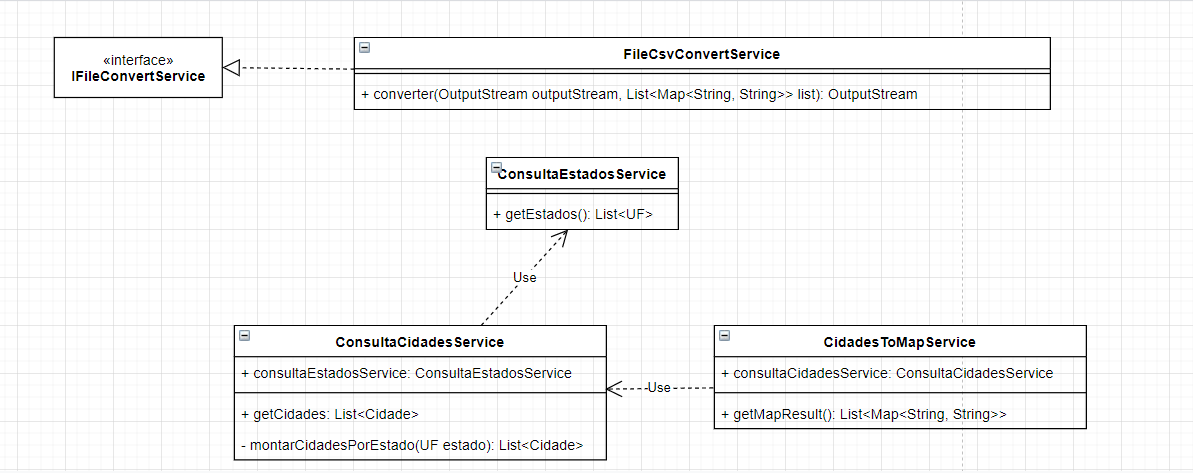
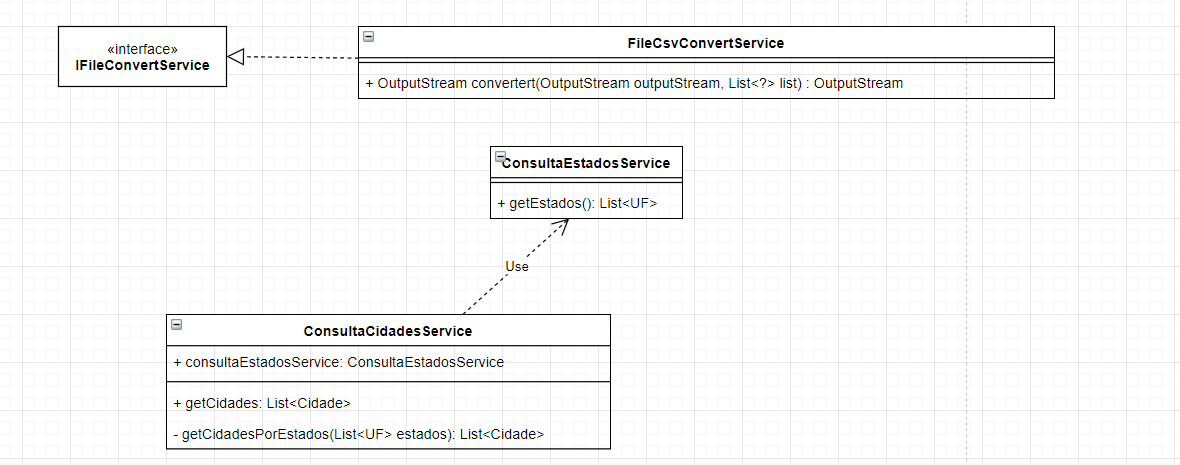
adicionado dto retorno e conversor generico csv

diff --git a/src/main/java/com/consulta/estado/cidade/resources/ConsultaCidadeResource.java b/src/main/java/com/consulta/estado/cidade/resources/ConsultaCidadeResource.java
@@ -7,6 +7,7 @@ import java.util.Date;
 import java.util.HashMap;
 import java.util.List;
 import java.util.Map;
+import java.util.stream.Collectors;
 import javax.servlet.http.HttpServletResponse;
 import org.springframework.beans.factory.annotation.Autowired;
 import org.springframework.cache.annotation.Cacheable;
@@ -18,7 +19,7 @@ import org.springframework.web.bind.annotation.RequestMapping;
 import org.springframework.web.bind.annotation.ResponseStatus;
 import org.springframework.web.bind.annotation.RestController;
 import com.consulta.estado.cidade.models.Cidade;
-import com.consulta.estado.cidade.services.CidadesToMapService;
+import com.consulta.estado.cidade.models.CidadeDto;
 import com.consulta.estado.cidade.services.ConsultaCidadesService;
 import com.consulta.estado.cidade.services.IFileConvertService;
 import io.swagger.annotations.Api;
@@ -35,37 +36,34 @@ public class ConsultaCidadeResource {
 	@Autowired
 	private ConsultaCidadesService consultaCidadesService;
 
-	@Autowired
-	private CidadesToMapService cidadesToMapService;
-
 	@ApiOperation(value = "Retorna csv")
 	@GetMapping("/cidades/csv")
 	@ResponseStatus(HttpStatus.CREATED)
 	public OutputStream getCsv(HttpServletResponse response) throws IOException {
-		List<Map<String, String>> listaMapDados = cidadesToMapService.getMapResult();
 
+		List<CidadeDto> cidadesDto = consultaCidadesService.getCidades().stream().map(cidade -> new CidadeDto(cidade)).collect(Collectors.toList());
+		
 		response.setContentType("text/csv");
 
 		String nomeArquivo = "consulta_" + new SimpleDateFormat("yyyyMMddHHmmssSSS").format(new Date());
 		response.setHeader("Content-Disposition", "attachment; filename=" + nomeArquivo + ".csv;");
 		
-		return fileConvertCsv.converter(response.getOutputStream(), listaMapDados);
+		return fileConvertCsv.convertert(response.getOutputStream(), cidadesDto);
 	}
 
 	@ApiOperation(value = "Retorna json")
 	@GetMapping("/cidades/json")
 	@ResponseStatus(HttpStatus.OK)
-	public ResponseEntity<List<Map<String, String>>> getCidades() {
-		List<Map<String, String>> listaMapDados = cidadesToMapService.getMapResult();
-		return new ResponseEntity<List<Map<String, String>>>(listaMapDados, HttpStatus.OK);
+	public List<CidadeDto> getCidades() {
+		List<CidadeDto> cidadesDto = consultaCidadesService.getCidades().stream().map(x -> new CidadeDto(x)).collect(Collectors.toList());
+		return cidadesDto;
 	}
 
 	@ApiOperation(value = "obtem cidade por nome")
 	@GetMapping("/cidades/{nomeCidade}")
 	@Cacheable("cidade")
 	public ResponseEntity<?> getCidade(@PathVariable String nomeCidade) {
-		Cidade cidade = consultaCidadesService.getCidades().stream()
-				.filter(cid -> cid.getNome().equalsIgnoreCase(nomeCidade)).findFirst().orElse(null);
+		Cidade cidade = consultaCidadesService.getCidades().stream().filter(cid -> cid.getNome().equalsIgnoreCase(nomeCidade)).findFirst().orElse(null);
 
 		if (cidade != null) {
 			return new ResponseEntity<>(cidade.getId(), HttpStatus.OK);

diff --git a/src/main/java/com/consulta/estado/cidade/utils/ObjectListToCSV.java b/src/main/java/com/consulta/estado/cidade/utils/ObjectListToCSV.java
@@ -1,0 +1,87 @@
+package com.consulta.estado.cidade.utils;
+
+import java.lang.reflect.Field;
+import java.lang.reflect.Modifier;
+import java.util.ArrayList;
+import java.util.List;
+
+public class ObjectListToCSV {
+
+	private static final String CSV_SEPARATOR = ",";
+
+	public static String convertListToCSV(List<?> objectList) {
+		if (objectList.size() < 1) {
+			Log.getLog().info("Não encontrado itens para converter para csv");
+			return "";
+		}
+		String csv = "";
+		Object t = objectList.get(0);
+		Field[] declaredFields = t.getClass().getDeclaredFields();
+		ArrayList<Field> useableFields = getUseableFields(declaredFields);
+		csv = getCSVHeader(csv, useableFields, null);
+		csv = csv.concat("\n");
+		for (Object object : objectList) {
+			csv = addObjectValue(csv, useableFields, object);
+			csv = csv.concat("\n");
+		}
+		return csv;
+	}
+
+	private static String addObjectValue(String csv, ArrayList<Field> useableFields, Object object) {
+
+		for (Field field : useableFields) {
+			try {
+				if (canFieldUsedDirectly(field)) {
+					if (object != null) {
+						field.setAccessible(true);
+						Object value = field.get(object);
+						csv = csv.concat(value + "");
+						field.setAccessible(false);
+					}
+				} else {
+					if (object != null) {
+						field.setAccessible(true);
+						Object value = field.get(object);
+						field.setAccessible(false);
+						csv = addObjectValue(csv, getUseableFields(field.getType().getDeclaredFields()), value);
+					}
+				}
+			} catch (IllegalArgumentException e) {
+				Log.getLog().fine(e.getMessage());
+			} catch (SecurityException e) {
+				Log.getLog().fine(e.getMessage());
+			} catch (IllegalAccessException e) {
+				Log.getLog().fine(e.getMessage());
+			}
+			csv = csv.concat(CSV_SEPARATOR);
+		}
+		return csv;
+	}
+
+	private static boolean canFieldUsedDirectly(Field field) {
+		return !field.getType().toString().contains("biplav");
+	}
+
+	private static ArrayList<Field> getUseableFields(Field[] declaredFields) {
+		ArrayList<Field> useableFields = new ArrayList<Field>();
+		for (Field field : declaredFields) {
+			if (!Modifier.isStatic(field.getModifiers())) {
+				useableFields.add(field);
+			}
+		}
+		return useableFields;
+	}
+
+	private static String getCSVHeader(String csv, ArrayList<Field> useableFields, String prefix) {
+		prefix = (prefix == null) ? "" : prefix;
+		for (Field field : useableFields) {
+			if (canFieldUsedDirectly(field)) {
+				csv = csv.concat(prefix + field.getName());
+				csv = csv.concat(CSV_SEPARATOR);
+			} else {
+				csv = getCSVHeader(csv, getUseableFields(field.getType().getDeclaredFields()), field.getName() + "_");
+			}
+		}
+		return csv;
+	}
+}

diff --git a/src/main/java/com/consulta/estado/cidade/services/ConsultaCidadesService.java b/src/main/java/com/consulta/estado/cidade/services/ConsultaCidadesService.java
@@ -5,6 +5,8 @@ import java.util.Arrays;
 import java.util.HashMap;
 import java.util.List;
 import java.util.Map;
+import java.util.stream.Collectors;
+
 import org.springframework.beans.factory.annotation.Autowired;
 import org.springframework.beans.factory.annotation.Value;
 import org.springframework.stereotype.Service;
@@ -27,37 +29,32 @@ public class ConsultaCidadesService {
 
 	public List<Cidade> getCidades() {
 
-		Log.getLog().info("Inicio consultar cidades");
+		Log.getLog().info("Consultando cidades...");
 
 		List<UF> estados = this.consultaEstadosService.getEstados();
-		List<Cidade> listaCidades = new ArrayList<Cidade>();
+		List<Cidade> cidades = getCidadesPorEstados(estados);
 
-		estados.forEach(estado -> {
-			listaCidades.addAll(montarCidadesPorEstado(estado));
-		});
+		Log.getLog().info("Consulta de cidades finalizado...");
 
-		Log.getLog().info("Fim consultar cidades");
-
-		return listaCidades;
+		return cidades;
 	}
 
-	private List<Cidade> montarCidadesPorEstado(UF estado) {
+	private List<Cidade> getCidadesPorEstados(List<UF> estados) {
 
 		List<Cidade> listaCidades = new ArrayList<Cidade>();
 
-		Log.getLog().info("Inicio consulta de cidades para o estado : " + estado);
+		Log.getLog().info("Consulta de cidades para os estados: " + estados);
+
+		String estadosIds = String.join("|", estados.stream().map(estado -> estado.getId().toString()).collect(Collectors.toList()));
 
 		Map<String, String> param = new HashMap<String, String>();
-		param.put("UF", estado.getSigla());
-
-		Log.getLog().info("Consultando cidades da UF:  " + estado.getSigla());
+		param.put("UF", estadosIds);
 
 		Cidade[] cidades = restTemplate.getForObject(url, Cidade[].class, param);
-
 		listaCidades.addAll(Arrays.asList(cidades));
 
-		Log.getLog().info("Fim consulta de cidades para o estado : " + estado);
-		Log.getLog().info("Cidades encontradas para o Estado " + estado.getSigla() + " | " + listaCidades);
+		Log.getLog().info("Fim consulta de cidades para os estados: " + estados);
+		Log.getLog().info("Cidades encontradas: " + listaCidades);
 
 		return listaCidades;
 	}

diff --git a/src/main/java/com/consulta/estado/cidade/models/CidadeDto.java b/src/main/java/com/consulta/estado/cidade/models/CidadeDto.java
@@ -1,0 +1,75 @@
+package com.consulta.estado.cidade.models;
+
+import java.io.Serializable;
+
+public class CidadeDto implements Serializable {
+
+	private static final long serialVersionUID = 1L;
+
+	private Long idEstado;
+	private String siglaEstado;
+	private String regiaoNome;
+	private String nomeCidade;
+	private String nomeMesorregiao;
+	private String nomeFormatado;
+
+	public CidadeDto(Cidade cidade) {
+		this.idEstado = cidade.getMicrorregiao().getMesorregiao().getUf().getId();
+		this.siglaEstado = cidade.getMicrorregiao().getMesorregiao().getUf().getSigla();
+		this.regiaoNome = cidade.getMicrorregiao().getMesorregiao().getUf().getRegiao().getNome();
+		this.nomeCidade = cidade.getNome();
+		this.nomeMesorregiao = cidade.getMicrorregiao().getMesorregiao().getNome();
+		this.nomeFormatado = this.nomeCidade + "/" + this.siglaEstado;
+	}
+
+	public CidadeDto() {
+	}
+
+	public Long getIdEstado() {
+		return idEstado;
+	}
+
+	public void setIdEstado(Long idEstado) {
+		this.idEstado = idEstado;
+	}
+
+	public String getSiglaEstado() {
+		return siglaEstado;
+	}
+
+	public void setSiglaEstado(String siglaEstado) {
+		this.siglaEstado = siglaEstado;
+	}
+
+	public String getRegiaoNome() {
+		return regiaoNome;
+	}
+
+	public void setRegiaoNome(String regiaoNome) {
+		this.regiaoNome = regiaoNome;
+	}
+
+	public String getNomeCidade() {
+		return nomeCidade;
+	}
+
+	public void setNomeCidade(String nomeCidade) {
+		this.nomeCidade = nomeCidade;
+	}
+
+	public String getNomeMesorregiao() {
+		return nomeMesorregiao;
+	}
+
+	public void setNomeMesorregiao(String nomeMesorregiao) {
+		this.nomeMesorregiao = nomeMesorregiao;
+	}
+
+	public String getNomeFormatado() {
+		return nomeFormatado;
+	}
+
+	public void setNomeFormatado(String nomeFormatado) {
+		this.nomeFormatado = nomeFormatado;
+	}
+}

diff --git a/src/main/java/com/consulta/estado/cidade/services/FileCsvConvertService.java b/src/main/java/com/consulta/estado/cidade/services/FileCsvConvertService.java
@@ -5,40 +5,20 @@ import java.io.OutputStream;
 import java.io.OutputStreamWriter;
 import java.nio.charset.StandardCharsets;
 import java.util.List;
-import java.util.Map;
-import java.util.Map.Entry;
-import java.util.stream.Collectors;
-
 import org.springframework.stereotype.Service;
-
 import com.consulta.estado.cidade.utils.Log;
+import com.consulta.estado.cidade.utils.ObjectListToCSV;
 
 @Service
 public class FileCsvConvertService implements IFileConvertService {
 
-	@Override
-	public OutputStream converter(OutputStream outputStream, List<Map<String, String>> list) throws IOException {
-		List<String> headers = list.stream().flatMap(map -> map.keySet().stream()).distinct()
-				.collect(Collectors.toList());
-
-		Log.getLog().info("Inicio conversão do arquivo para .csv");
+	public OutputStream convertert(OutputStream outputStream, List<?> list) throws IOException {
 		
 		try (OutputStreamWriter writer = new OutputStreamWriter(outputStream, StandardCharsets.UTF_8)) {
 
-			for (String string : headers) {
-				writer.write(string);
-				writer.write(",");
-			}
-			writer.write("\r\n");
-
-			for (Map<String, String> lmap : list) {
-				for (Entry<String, String> string2 : lmap.entrySet()) {
-					writer.write(string2.getValue());
-					writer.write(",");
-				}
-				writer.write("\r\n");
-			}
-
+			String csv = ObjectListToCSV.convertListToCSV(list);
+			
+			writer.write(csv);
 			writer.flush();
 			writer.close();
 
@@ -51,5 +31,4 @@ public class FileCsvConvertService implements IFileConvertService {
 			throw new IOException("Erro ao converter para csv");
 		}
 	}
-
 }

diff --git a/src/main/java/com/consulta/estado/cidade/services/ConsultaEstadosService.java b/src/main/java/com/consulta/estado/cidade/services/ConsultaEstadosService.java
@@ -19,13 +19,15 @@ public class ConsultaEstadosService {
 	private String url;
 
 	public List<UF> getEstados() {
-		
-		Log.getLog().info("Inicio obter Estados");
-		
+
+		Log.getLog().info("Inicio consulta Estados");
+
 		UF[] ufs = restTemplate.getForObject(url, UF[].class);
-		
-		Log.getLog().info("Fim obter Estados :" + ufs);
-		
-		return Arrays.asList(ufs);
+
+		List<UF> estados = Arrays.asList(ufs);
+
+		Log.getLog().info("Fim consulta Estados, estados encontados: " + estados);
+
+		return estados;
 	}
 }

diff --git a/src/main/java/com/consulta/estado/cidade/services/IFileConvertService.java b/src/main/java/com/consulta/estado/cidade/services/IFileConvertService.java
@@ -3,8 +3,7 @@ package com.consulta.estado.cidade.services;
 import java.io.IOException;
 import java.io.OutputStream;
 import java.util.List;
-import java.util.Map;
 
 public interface IFileConvertService {
-	OutputStream converter(OutputStream outputStream, List<Map<String, String>> list) throws IOException;
+	OutputStream convertert(OutputStream outputStream, List<?> list) throws IOException;
 }

diff --git a/src/main/java/com/consulta/estado/cidade/models/Cidade.java b/src/main/java/com/consulta/estado/cidade/models/Cidade.java
@@ -22,4 +22,9 @@ public class Cidade extends ModelBase implements Serializable {
 	public static long getSerialversionuid() {
 		return serialVersionUID;
 	}
+	
+	@Override
+	public String toString() {
+		return this.getNome();
+	}
 }

diff --git a/src/main/java/com/consulta/estado/cidade/models/UF.java b/src/main/java/com/consulta/estado/cidade/models/UF.java
@@ -15,4 +15,9 @@ public class UF extends ModelBaseWithSigla implements Serializable {
 	public void setRegiao(Regiao regiao) {
 		this.regiao = regiao;
 	}
+	
+	@Override
+	public String toString() {
+		return this.getSigla();
+	}
 }
